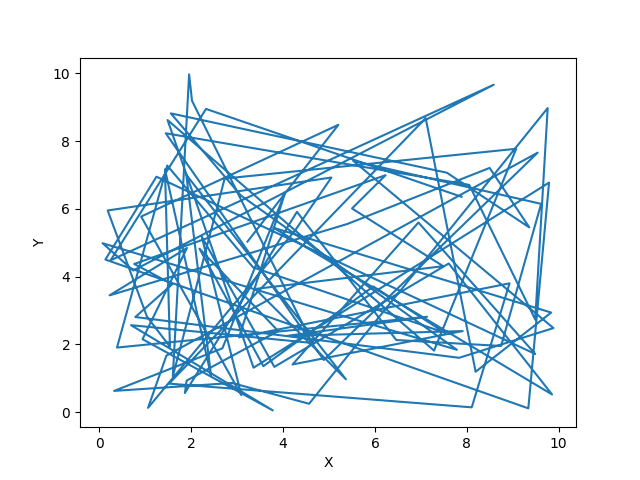
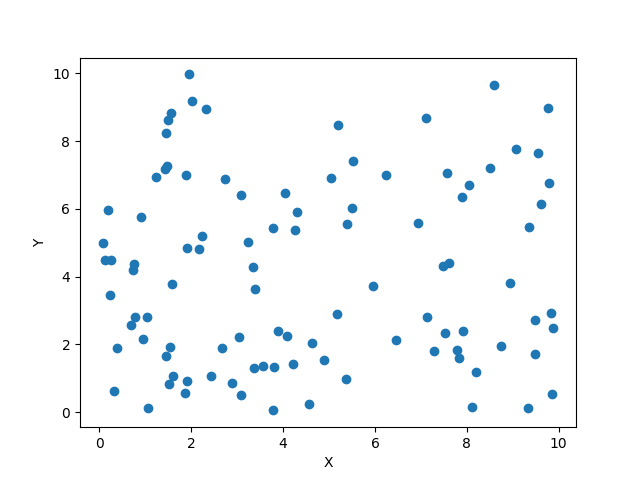
(a)(2)

Changed region(s): [[0.1562, 0.125, 0.875, 0.875], [0.75, 0.1562, 0.7812, 0.1875], [0.1562, 0.8125, 0.1875, 0.8438]]

diff --git a/mesh_visualize.py b/mesh_visualize.py
@@ -6,7 +6,7 @@ data = pd.read_csv(file_path, delimiter=' ', header=0)
 
 print(data.head())
 
-plt.plot(data['X'], data['Y'])
+plt.scatter(data['X'], data['Y'])
 plt.xlabel('X')
 plt.ylabel('Y')
 
